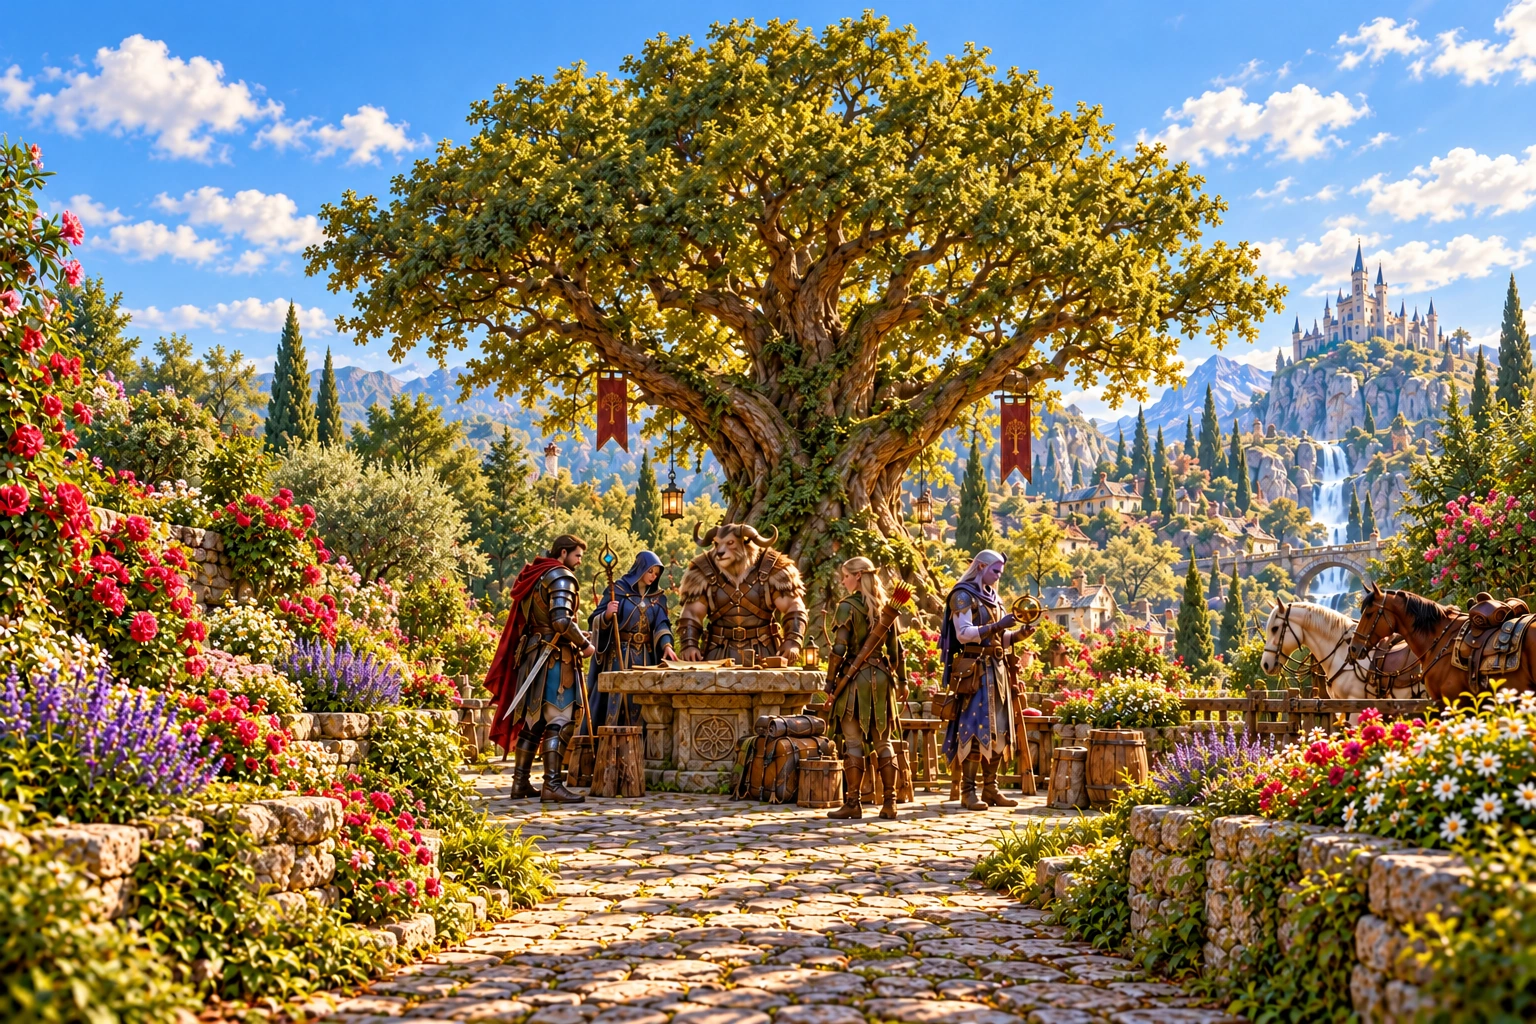
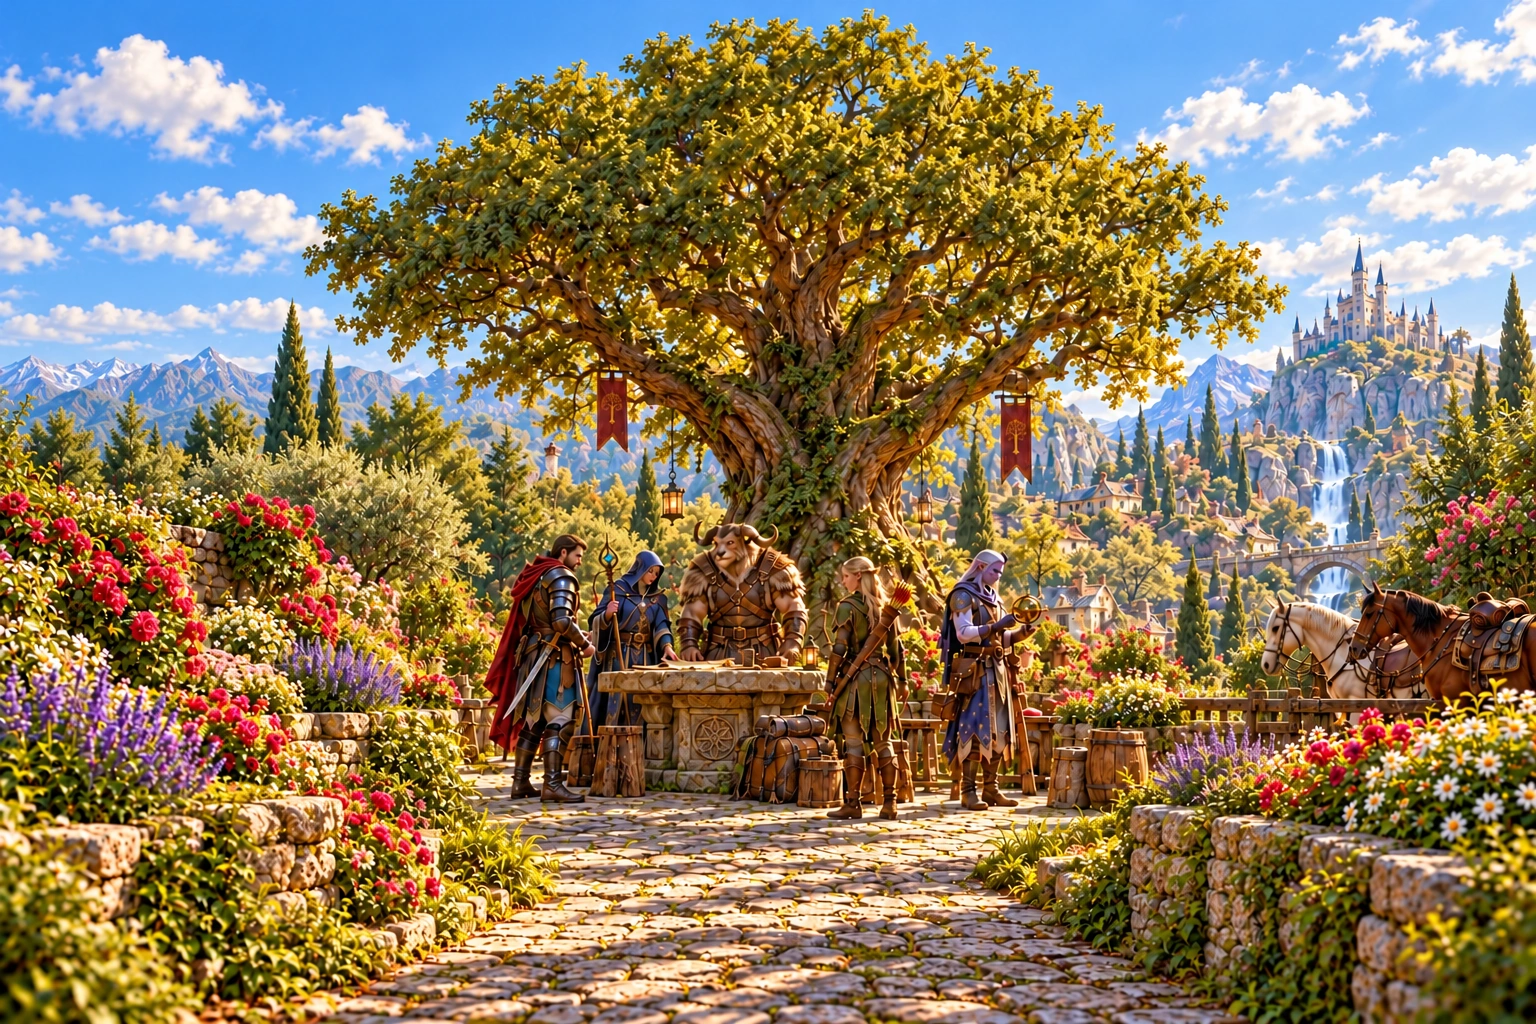
Polish courtyard foliage transitions and animate detailed swallows

Changed region(s): [[0.0, 0.0, 1.0, 1.0]]

diff --git a/src/courtyard-life.js b/src/courtyard-life.js
@@ -1,3 +1,4 @@
+import {createCourtyardBird,animateCourtyardBird} from './courtyard-birds.js';
 // Billboards face the viewer's position, while the art faces its projected travel.
 // Turning the camera alone must never reverse a pedestrian's apparent stride.
 export function walkerFacing(position,viewer,direction,previous=1){
@@ -16,8 +17,7 @@ export async function courtyardLife(THREE,scene,load){
  // A tiny hand-drawn leaf texture is geometry decoration, not an edit to any artwork.
  const leafCanvas=document.createElement('canvas');leafCanvas.width=64;leafCanvas.height=32;const lc=leafCanvas.getContext('2d');lc.fillStyle='#c19c4d';lc.beginPath();lc.moveTo(2,16);lc.bezierCurveTo(18,-2,47,0,62,16);lc.bezierCurveTo(42,34,18,32,2,16);lc.fill();lc.strokeStyle='#695027';lc.lineWidth=1.4;lc.beginPath();lc.moveTo(4,16);lc.lineTo(61,16);for(let i=18;i<55;i+=12){lc.moveTo(i,16);lc.lineTo(i+6,7);lc.moveTo(i,16);lc.lineTo(i+5,25);}lc.stroke();const leafTexture=new THREE.CanvasTexture(leafCanvas),leafGeometry=new THREE.PlaneGeometry(.19,.095),leaves=[];
  for(let i=0;i<8;i++){const leaf=new THREE.Mesh(leafGeometry,new THREE.MeshBasicMaterial({map:leafTexture,transparent:true,alphaTest:.1,side:THREE.DoubleSide,color:i%3===0?0xb5c275:0xffffff}));scene.add(leaf);leaves.push(leaf);}
- const wingShape=new THREE.Shape();wingShape.moveTo(0,0);wingShape.bezierCurveTo(.13,.08,.3,.09,.55,-.08);wingShape.bezierCurveTo(.28,-.015,.18,-.04,0,-.03);wingShape.closePath();const wingGeometry=new THREE.ShapeGeometry(wingShape),birdMaterial=new THREE.MeshBasicMaterial({color:0x293a36,side:THREE.DoubleSide}),birds=[];
- for(let i=0;i<2;i++){const bird=new THREE.Group(),left=new THREE.Mesh(wingGeometry,birdMaterial),right=new THREE.Mesh(wingGeometry,birdMaterial);left.scale.x=-1;bird.add(left,right);bird.position.y=8;scene.add(bird);birds.push({bird,left,right});}
+ const birds=[];for(let i=0;i<2;i++){const model=createCourtyardBird(THREE);scene.add(model.bird);birds.push(model);}
  const shadowCanvas=document.createElement('canvas');shadowCanvas.width=shadowCanvas.height=64;const sc=shadowCanvas.getContext('2d'),gradient=sc.createRadialGradient(32,32,0,32,32,32);gradient.addColorStop(0,'rgba(32,26,17,.42)');gradient.addColorStop(.4,'rgba(32,26,17,.25)');gradient.addColorStop(1,'rgba(32,26,17,0)');sc.fillStyle=gradient;sc.fillRect(0,0,64,64);const shadowTexture=new THREE.CanvasTexture(shadowCanvas);
  const people=[];let previousTime=null;
  for(const [name,z,offset,reverse]of [['villager-woman.webp',-2.2,8,false],['villager-man.webp',-5.2,22,true]]){
@@ -30,7 +30,7 @@ export async function courtyardLife(THREE,scene,load){
  return {animate(s,time,reduced){
   const delta=previousTime===null?0:time-previousTime;previousTime=time;
   const gust=(time%26)-5;for(let i=0;i<leaves.length;i++){const leaf=leaves[i],p=(gust-i*.27)/6;leaf.visible=!reduced&&p>=0&&p<=1;if(!leaf.visible)continue;leaf.position.set(-6.5+p*14,1.1+Math.sin(p*Math.PI)*1.3+Math.sin(time*1.4+i)*.1,-2+(i%4)*.9);leaf.rotation.set(time*.65+i,time*.35,Math.sin(time*.8+i));}
-  for(let i=0;i<birds.length;i++){const {bird,left,right}=birds[i],t=((time+i*1.7)%42)/15;bird.visible=!reduced&&t<1;if(!bird.visible)continue;bird.position.set(-18+t*36,7.5+i*.8+Math.sin(t*Math.PI)*1.2,-17-i*1.5);const flap=Math.sin(time*4.6+i)*.48;left.rotation.x=flap;right.rotation.x=-flap;bird.rotation.y=-.1;}
+  for(let i=0;i<birds.length;i++){animateCourtyardBird(birds[i],time,i);if(reduced)birds[i].bird.visible=false;}
   for(const p of people){
    if(!reduced)p.seconds=advanceWalker(p.seconds,delta,p.reverse,p.z,s);
    const pose=walkerPosition(p.seconds,p.reverse);p.person.position.x=pose.x;

diff --git a/src/courtyard-birds.js b/src/courtyard-birds.js
@@ -1,0 +1,29 @@
+// Small articulated swallows: real depth, tapered feather fans and warm bellies.
+// Geometry stays light enough for the courtyard's capped mobile frame rate.
+export function createCourtyardBird(THREE){
+ const bird=new THREE.Group();bird.name='courtyard-swallow';
+ const dark=new THREE.MeshStandardMaterial({color:0x263d50,roughness:.72}),feather=new THREE.MeshStandardMaterial({color:0x486174,roughness:.86}),belly=new THREE.MeshStandardMaterial({color:0xc5bdaa,roughness:.9}),black=new THREE.MeshStandardMaterial({color:0x171e22,roughness:.6});
+ function oval(parent,material,position,scale){const mesh=new THREE.Mesh(new THREE.SphereGeometry(1,12,8),material);mesh.position.set(...position);mesh.scale.set(...scale);parent.add(mesh);return mesh;}
+ oval(bird,dark,[0,0,0],[.105,.095,.28]);oval(bird,belly,[0,-.04,-.025],[.086,.065,.21]);oval(bird,dark,[0,.025,-.24],[.09,.083,.1]);
+ const beak=new THREE.Mesh(new THREE.ConeGeometry(.035,.12,8),black);beak.rotation.x=-Math.PI/2;beak.position.set(0,.005,-.35);bird.add(beak);
+ for(const side of [-1,1])oval(bird,black,[side*.075,.045,-.285],[.012,.012,.013]);
+ function flightFeather(parent,x,z,length,width,angle,material=feather){const mesh=oval(parent,material,[x,0,z],[width,.012,length]);mesh.rotation.y=angle;return mesh;}
+ const wings=[];
+ for(const side of [-1,1]){
+  const pivot=new THREE.Group();pivot.position.set(side*.06,.018,-.045);bird.add(pivot);
+  const fan=new THREE.Group();fan.scale.x=side;pivot.add(fan);
+  oval(fan,dark,[.19,0,.005],[.25,.035,.11]);
+  for(let n=0;n<8;n++)flightFeather(fan,.17+n*.052,.035+n*.012,.17-n*.009,.037,-.5-n*.075,n%2?dark:feather);
+  wings.push(pivot);
+  flightFeather(bird,side*.06,.31,.23,.035,side*-.24,dark);
+ }
+ return {bird,left:wings[0],right:wings[1]};
+}
+export function animateCourtyardBird(model,time,index=0){
+ const t=((time+index*1.7)%42)/15,{bird,left,right}=model;bird.visible=t<1;if(!bird.visible)return;
+ const phase=time*5.8+index,burst=Math.max(0,Math.sin(time*.8+index)),flap=Math.sin(phase)*(.12+burst*.46);
+ bird.position.set(-18+t*36,7.5+index*.8+Math.sin(t*Math.PI)*1.2,-14-index*1.5);
+ // Nose (-Z) follows the path; both wings move together in world space.
+ bird.rotation.set(0,-Math.PI/2,Math.cos(t*Math.PI)*.10);
+ left.rotation.z=-flap;right.rotation.z=flap;
+}

diff --git a/src/courtyard-scenery.js b/src/courtyard-scenery.js
@@ -60,7 +60,16 @@ export async function createCourtyardScenery(THREE,load,stone=null){
   float feather=smoothstep(0.0,0.09,uv.x)*smoothstep(0.0,0.09,1.0-uv.x);
   vec3 ink=texture2D(painting,uv).rgb;
   float skyEdge=mix(smoothstep(0.0,.007,1.0-uv.y),smoothstep(0.0,.18,1.0-uv.y),skyMask(ink));
-  feather*=smoothstep(-.5,1.2,y)*smoothstep(0.0,.025,uv.y)*skyEdge;
+  // Sky replaces sky directly, so underlying trees cannot bleed through a crown.
+  vec3 clearSky=courtyardSky(vec3(sin(angle)*17.55,y,-cos(angle)*17.55)-cameraPosition);
+  ink=mix(clearSky,ink,skyEdge);
+  // A narrow, foliage-shaped seam keeps solid branches solid. Broad crossfades
+  // made two unrelated trees visible at once, creating translucent half-trees.
+  float foliage=1.0-skyMask(ink);
+  float contour=(softNoise(vec2(angle*60.0,y*.8))-.5)*.35;
+  float solidEdge=smoothstep(.12,.88,feather+contour);
+  feather=mix(feather,solidEdge,foliage);
+  feather*=smoothstep(-.5,1.2,y)*smoothstep(0.0,.025,uv.y);
   return mix(below,ink,feather);
  }
  vec3 courtyardPainting(float angle,float y,vec3 floorColor){

diff --git a/docs/COURTYARD.md b/docs/COURTYARD.md
@@ -17,3 +17,5 @@ The v0.34 environment refinement uses native-resolution limestone paving with su
 Pedestrian art now faces its projected direction of travel from the viewer's position, rather than following camera yaw. Pedestrians use stable lanes, pause if the player blocks their path, and fade out at the ends of their route. Gait pauses with movement; contact shadows anchor their feet. Turning alone never reverses their facing. Native regression checks cover views from both sides, the full viewing circle, blocked walking and ground projection from the courtyard's movement limits.
 
 The v0.35 repair makes the Wanted Poster a fixed 92 px wide control, independent of walking distance. Refined vista artwork includes complete tree crowns; the upper blend distinguishes sky from foliage instead of erasing a horizontal band through trees. A garden-only perimeter replaces the old village background, removing duplicate buildings beside the single foreground Tavern. The outside edges of Shop and Codex extend behind that foreground building, keeping their transitions out of view across the walkable courtyard. Checks compare the poster's actual screen size before/after approaching and inspect both Tavern flanks, upward views and destination transitions.
+
+The v0.35.1 touch-up uses narrow foliage-aware joins to prevent double-exposed trees. Each vista blends its sky directly with the shared sky rather than revealing unrelated background crowns. The two passing birds are articulated swallows with modeled bodies, beaks, eyes, forked tails, layered feathers and alternating flaps/glides; they remain paused or hidden for reduced motion.

diff --git a/RIGHTS.md b/RIGHTS.md
@@ -67,3 +67,5 @@ The v0.33 courtyard polish adds two original image-generated environment paintin
 The v0.34 courtyard refinement adds original image-generated limestone paving and afternoon cloud panorama textures in `assets/courtyard/limestone-paving.webp` and `assets/courtyard/afternoon-sky.webp`, encoded at native resolution. Existing painted destinations, pedestrian art and champion artwork are retained. Shared sky, contact shadows and ground blending are runtime geometry/shader effects, not edits to those images.
 
 The v0.35 courtyard repair adds six original image-generated environment refinements: five destination views with completed tree crowns and a garden-only perimeter. These are native-resolution WebP variants in `assets/courtyard/*-skyline.webp` and `garden-perimeter.webp`. The original paintings, foreground Tavern and champion portraits remain archived unchanged. Runtime compositing preserves the foliage silhouette while blending the sky.
+
+The courtyard muster skyline received a generated edge cleanup in v0.35.1, removing the partial tall flowering bush at the left border. Champion portraits are unchanged. The articulated courtyard swallows are original procedural geometry.
